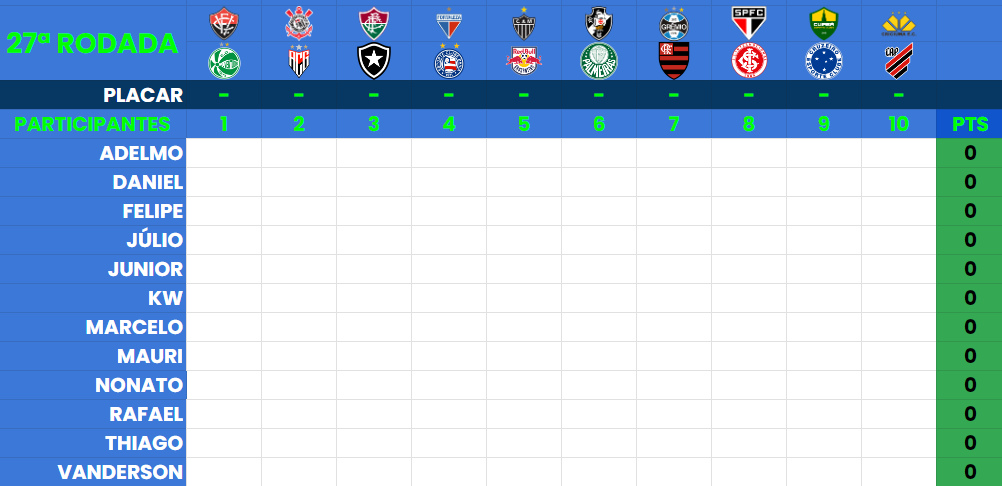
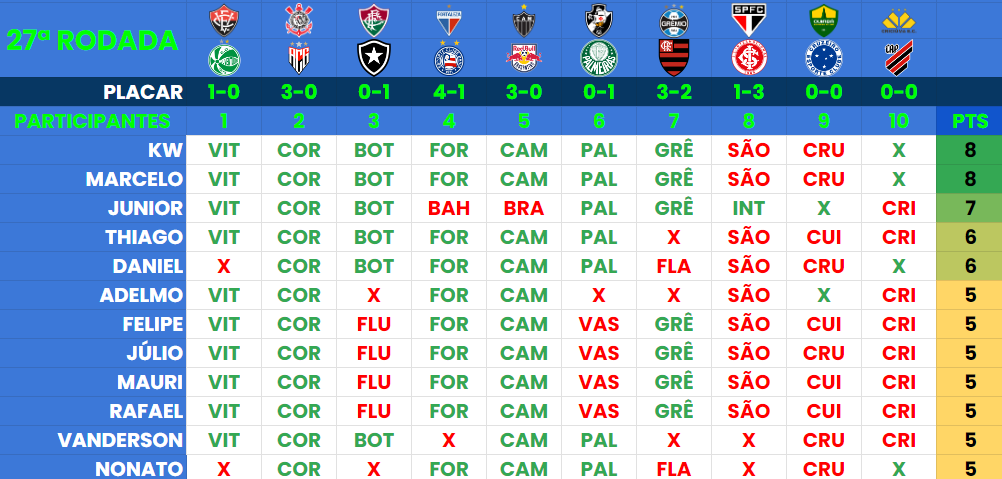
u

diff --git a/index.html b/index.html
@@ -51,12 +51,12 @@
           <img src="./assets/Round27.png" alt="Logo do Campeonato Brasileiro 2022" />
         </div>
         <div class="text">
-          <h2 class="title"><a href="./palpites_27.html">MERCADO ABERTO PARA A 27ª RODADA</a>
+          <h2 class="title"><a href="./predictor.html">KW e Marcelo são os melhores da Rodada 27</a>
           </h2>
           <p>
-            Mercado aberto até sábado 21/09 às 16:00
+            Júnior segue na liderança, mas KW diminui a a diferença para um ponto.
           </p>
-          <a class="button" href="./palpites_27.html">Palpitem na 27ª Rodada</a>
+          <a class="button" href="./predictor.html">Palpitem na 27ª Rodada</a>
         </div>
       </div>
     </section>
@@ -177,7 +177,7 @@
           <div class="content">
             <h2 class="rank"><small>#</small>1</h2>
             <h4>Júnior</h4>
-            <p>126 Pontos</p>
+            <p>132 Pontos</p>
           </div>
         </div>
         <div class="list">
@@ -187,17 +187,7 @@
           <div class="content">
             <h2 class="rank"><small>#</small>2</h2>
             <h4>KW</h4>
-            <p>123 Pontos</p>
-          </div>
-        </div>
-        <div class="list">
-          <div class="imgBx">
-            <img src="./assets/fotos/fortaleza.png">
-          </div>
-          <div class="content">
-            <h2 class="rank"><small>#</small>3</h2>
-            <h4>Júlio César</h4>
-            <p>122 Pontos</p>
+            <p>131 Pontos</p>
           </div>
         </div>
         <div class="list">
@@ -205,9 +195,19 @@
             <img src="./assets/fotos/palmeiras.png">
           </div>
           <div class="content">
-            <h2 class="rank"><small>#</small>4</h2>
+            <h2 class="rank"><small>#</small>3</h2>
             <h4>Marcelo</h4>
-            <p>122 Pontos</p>
+            <p>130 Pontos</p>
+          </div>
+        </div>
+        <div class="list">
+          <div class="imgBx">
+            <img src="./assets/fotos/fortaleza.png">
+          </div>
+          <div class="content">
+            <h2 class="rank"><small>#</small>4</h2>
+            <h4>Júlio César</h4>
+            <p>127 Pontos</p>
           </div>
         </div>
         <div class="list">
@@ -217,17 +217,7 @@
           <div class="content">
             <h2 class="rank"><small>#</small>5</h2>
             <h4>Adelmo</h4>
-            <p>120 Pontos</p>
-          </div>
-        </div>
-        <div class="list">
-          <div class="imgBx">
-            <img src="./assets/fotos/fortaleza.png">
-          </div>
-          <div class="content">
-            <h2 class="rank"><small>#</small>6</h2>
-            <h4>Vanderson</h4>
-            <p>119 Pontos</p>
+            <p>125 Pontos</p>
           </div>
         </div>
         <div class="list">
@@ -235,9 +225,19 @@
             <img src="./assets/fotos/ceará.png">
           </div>
           <div class="content">
-            <h2 class="rank"><small>#</small>7</h2>
+            <h2 class="rank"><small>#</small>6</h2>
             <h4>Thiago</h4>
-            <p>119 Pontos</p>
+            <p>125 Pontos</p>
+          </div>
+        </div>
+        <div class="list">
+          <div class="imgBx">
+            <img src="./assets/fotos/fortaleza.png">
+          </div>
+          <div class="content">
+            <h2 class="rank"><small>#</small>7</h2>
+            <h4>Vanderson</h4>
+            <p>124 Pontos</p>
           </div>
         </div>
         <div class="list">
@@ -247,7 +247,7 @@
           <div class="content">
             <h2 class="rank"><small>#</small>8</h2>
             <h4>Mauri</h4>
-            <p>115 Pontos</p>
+            <p>120 Pontos</p>
           </div>
         </div>
         <div class="list">
@@ -257,7 +257,7 @@
           <div class="content">
             <h2 class="rank"><small>#</small>9</h2>
             <h4>Nonato</h4>
-            <p>113 Pontos</p>
+            <p>118 Pontos</p>
           </div>
         </div>
         <div class="list">
@@ -267,7 +267,7 @@
           <div class="content">
             <h2 class="rank"><small>#</small>10</h2>
             <h4>Rafael</h4>
-            <p>113 Pontos</p>
+            <p>118 Pontos</p>
           </div>
         </div>
         <div class="list">
@@ -277,7 +277,7 @@
           <div class="content">
             <h2 class="rank"><small>#</small>11</h2>
             <h4>Felipe</h4>
-            <p>111 Pontos</p>
+            <p>116 Pontos</p>
           </div>
         </div>
         <div class="list">
@@ -287,7 +287,7 @@
           <div class="content">
             <h2 class="rank"><small>#</small>12</h2>
             <h4>Daniel</h4>
-            <p>109 Pontos</p>
+            <p>115 Pontos</p>
           </div>
         </div>
       </div>
